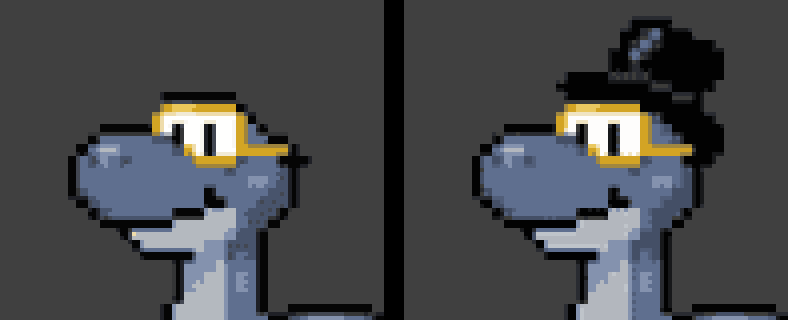
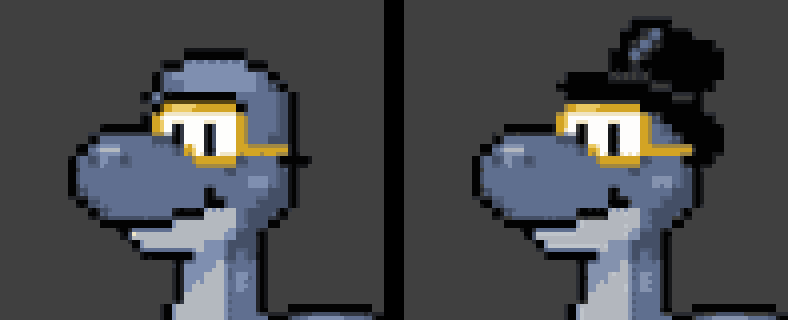
ch06: paint Messie's skull back in under the hat (#26)
With the hat erased the head ended flat at the goggle strap. CROWN paints a rounded
skull on the native grid in the ramp's own slate shades; the goggles sit on its
forehead. messie-mayor.png is unchanged; 0 px in the dead corners.

diff --git a/campaigns/rime-of-the-frostmaiden/portraits/messie.py b/campaigns/rime-of-the-frostmaiden/portraits/messie.py
@@ -15,7 +15,9 @@ grid, sampled at cell centres, so JPEG noise never reaches the bust:
     10) and its pale belly on the cast light grey (idx 11), each at the art's own brightness, so
     the ramp survives. Gold goggles, black outline/hat and white eyes are not blue and stay.
   * no-hat -- the hat's cells are erased to background, and any erased cell touching exposed
-    skin or goggle is re-inked as outline. Nothing is repainted (Nicolas: "just crop it out").
+    skin or goggle is re-inked as outline. That left the head flat at the goggle strap, so
+    CROWN paints a rounded skull back in on the native grid (Nicolas, 2026-10-05: "fill his
+    head in a bit"), in the ramp's own slate shades; the goggles sit on its forehead.
   * bust -- ref_to_bust at ONE crop for both, the largest that leaves FE8's dead corners empty
     with the hat on (0 clipped px, portrait_tool.clipped_mask), flipped to face screen-left and
     matted black so the white background cannot halo the outline. Same crop = same scale: in
@@ -78,6 +80,33 @@ def remove_hat(img):
     return img
 
 
+# The skull the hat hid, painted on the native grid (cols from CROWN_X0; '_' leaves a cell as
+# is): '#' outline, 's' slate (cast idx 10), 'h' its highlight, 'd' its shade -- the three
+# shades the retinted ramp already uses on his snout.
+CROWN_INK = {'#': (0, 0, 0), 's': SKIN, 'h': (0x79, 0x8c, 0xb2), 'd': (0x43, 0x4e, 0x66)}
+CROWN_X0 = 23
+CROWN = [
+    (4, "______######______"),
+    (5, "____##hhhhhh##____"),
+    (6, "___#shhhhhhhhs#___"),
+    (7, "__#dshhhhhhhss#___"),
+    (8, "_#dssss_______s#__"),
+    (9, "_#dsss________#___"),
+    (10, "_#dsss_________#__"),
+    (11, "_#dss_____________"),
+    (12, "_#dds_____________"),
+]
+
+
+def paint_crown(img):
+    img = img.copy()
+    for j, row in CROWN:
+        for k, c in enumerate(row):
+            if c != '_':
+                img.putpixel((CROWN_X0 + k, j), CROWN_INK[c])
+    return img
+
+
 def bust(grid):
     big = grid.resize((grid.width * CELL, grid.height * CELL), Image.NEAREST)
     tmp = os.path.join(HERE, '.messie-ref.png')
@@ -94,7 +123,7 @@ def bust(grid):
 
 def main():
     grey = grey_grid()
-    for name, grid in (('messie-mayor', grey), ('messie', remove_hat(grey))):
+    for name, grid in (('messie-mayor', grey), ('messie', paint_crown(remove_hat(grey)))):
         path = os.path.join(HERE, name + '.png')
         bust(grid).save(path)
         print('wrote', os.path.relpath(path, REPO))
